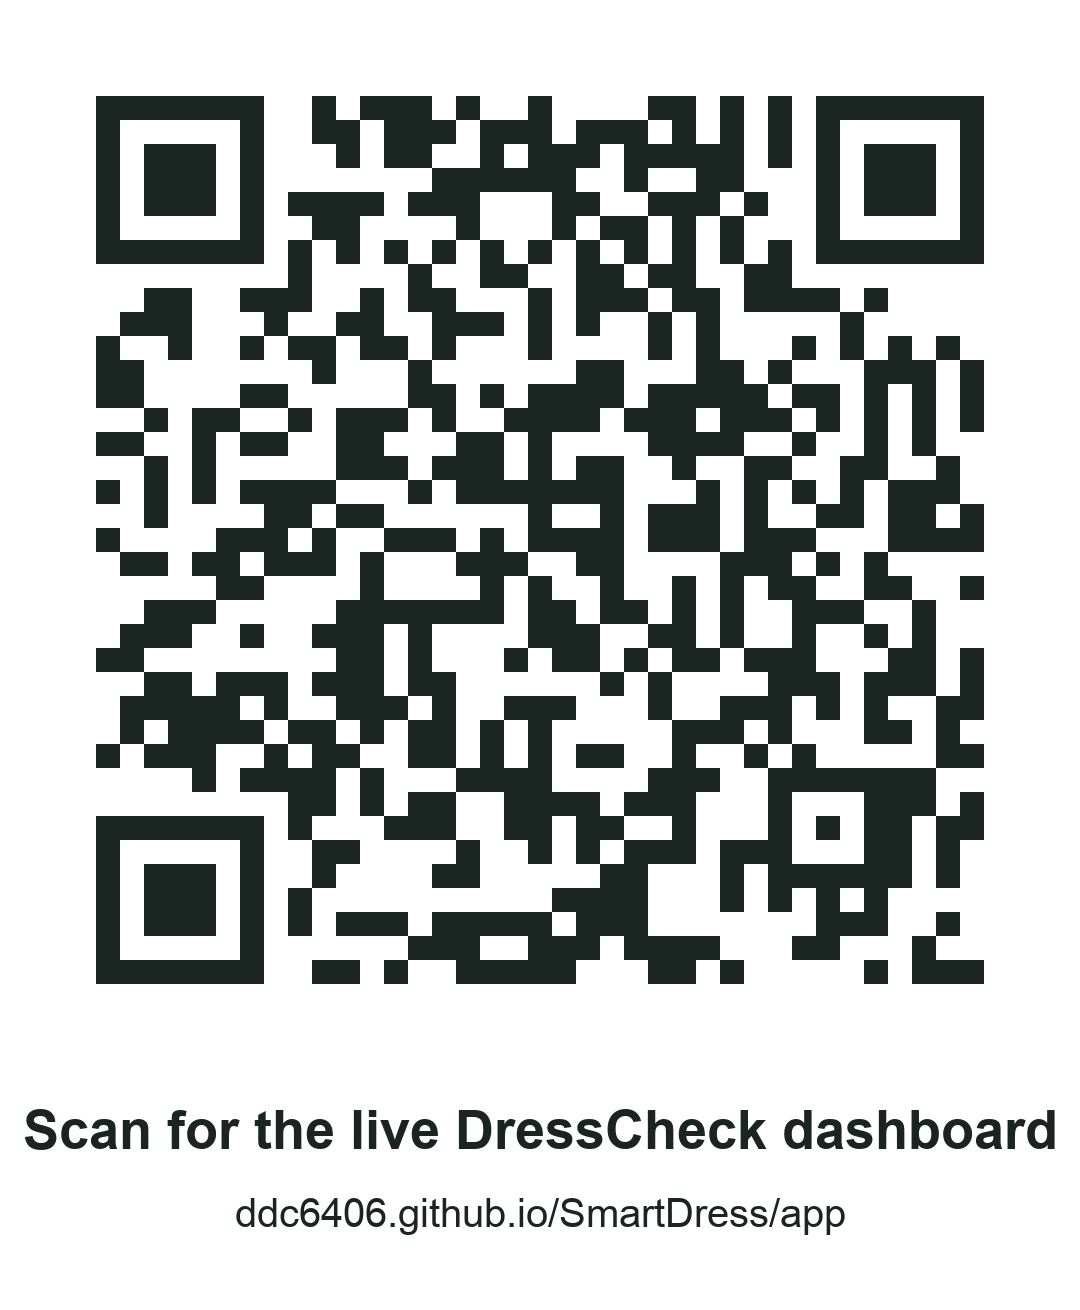
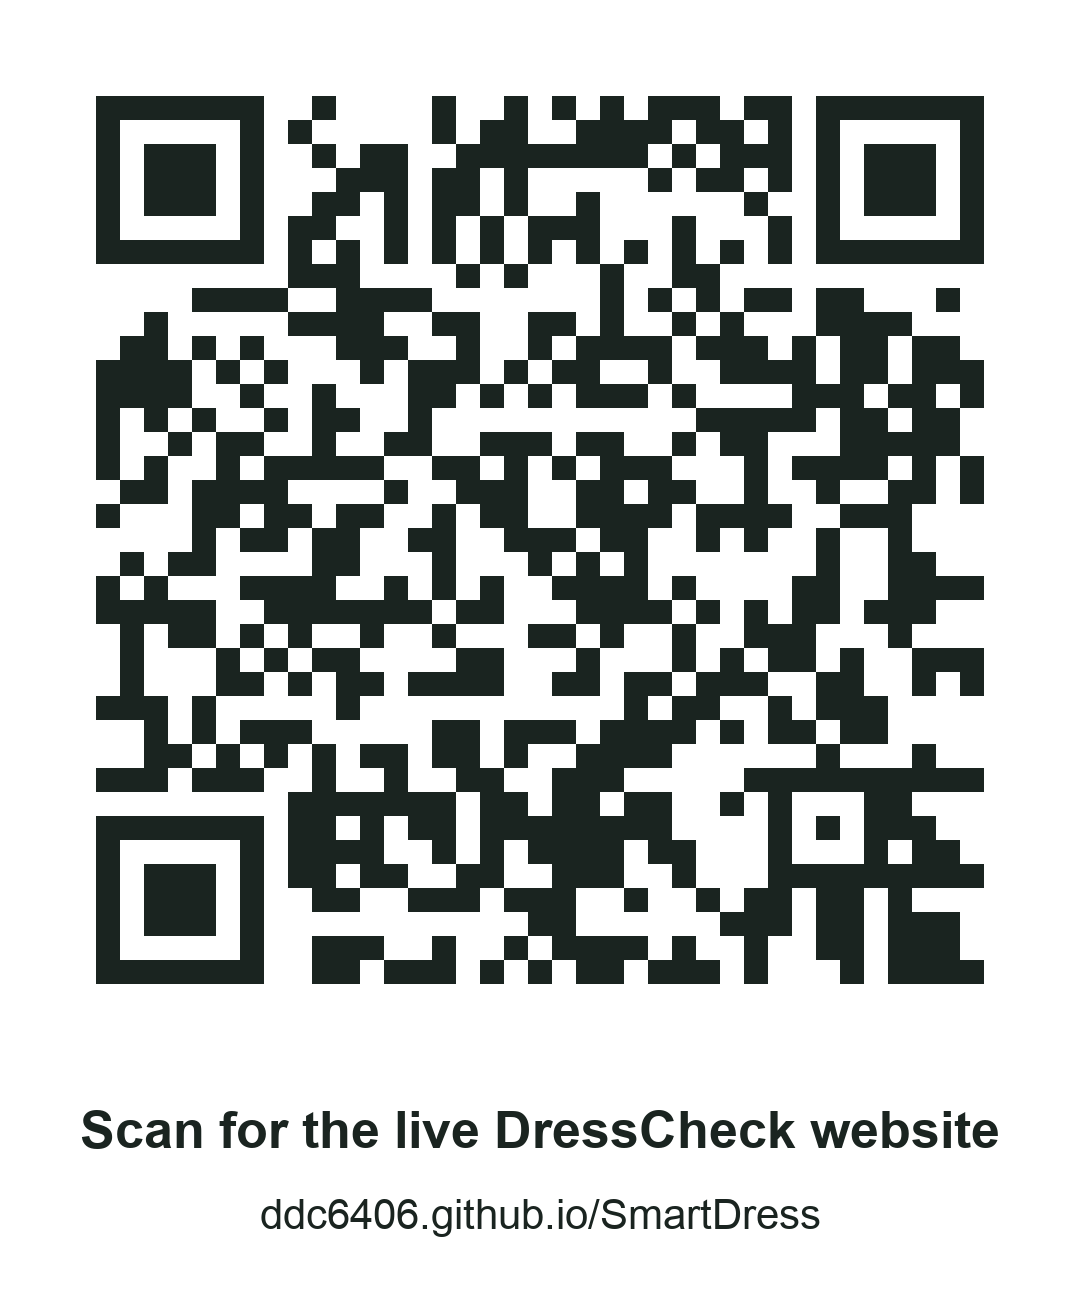
Main site address opens the dashboard; live QR uses it
- index.html at the repo root redirects to app/ (keeps ?mock), so
  ddc6406.github.io/SmartDress/ no longer 404s
- Live QR now encodes the shorter main address

Changed region(s): [[0.0917, 0.0611, 0.9167, 0.7634], [0.0, 0.8244, 0.9778, 0.8855], [0.2139, 0.916, 0.7944, 0.9466]]

diff --git a/index.html b/index.html
@@ -1,0 +1,14 @@
+<!DOCTYPE html>
+<html lang="en">
+<head>
+  <meta charset="UTF-8" />
+  <meta name="viewport" content="width=device-width, initial-scale=1" />
+  <title>DressCheck</title>
+  <!-- The dashboard lives in app/. Send visitors there, keeping any ?mock etc. -->
+  <meta http-equiv="refresh" content="0; url=app/" />
+  <script>location.replace("app/" + location.search + location.hash);</script>
+</head>
+<body style="font-family: sans-serif; padding: 2rem;">
+  <p>Opening the DressCheck dashboard… <a href="app/">Tap here if it doesn't open.</a></p>
+</body>
+</html>
